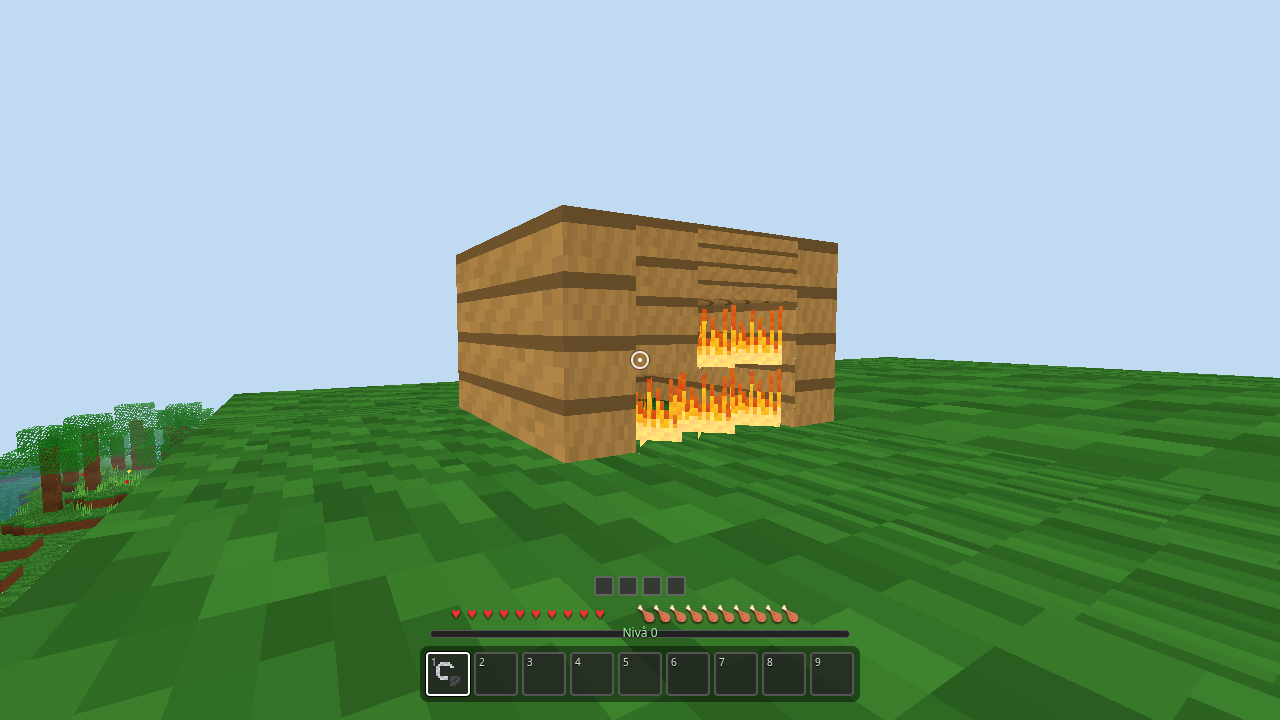
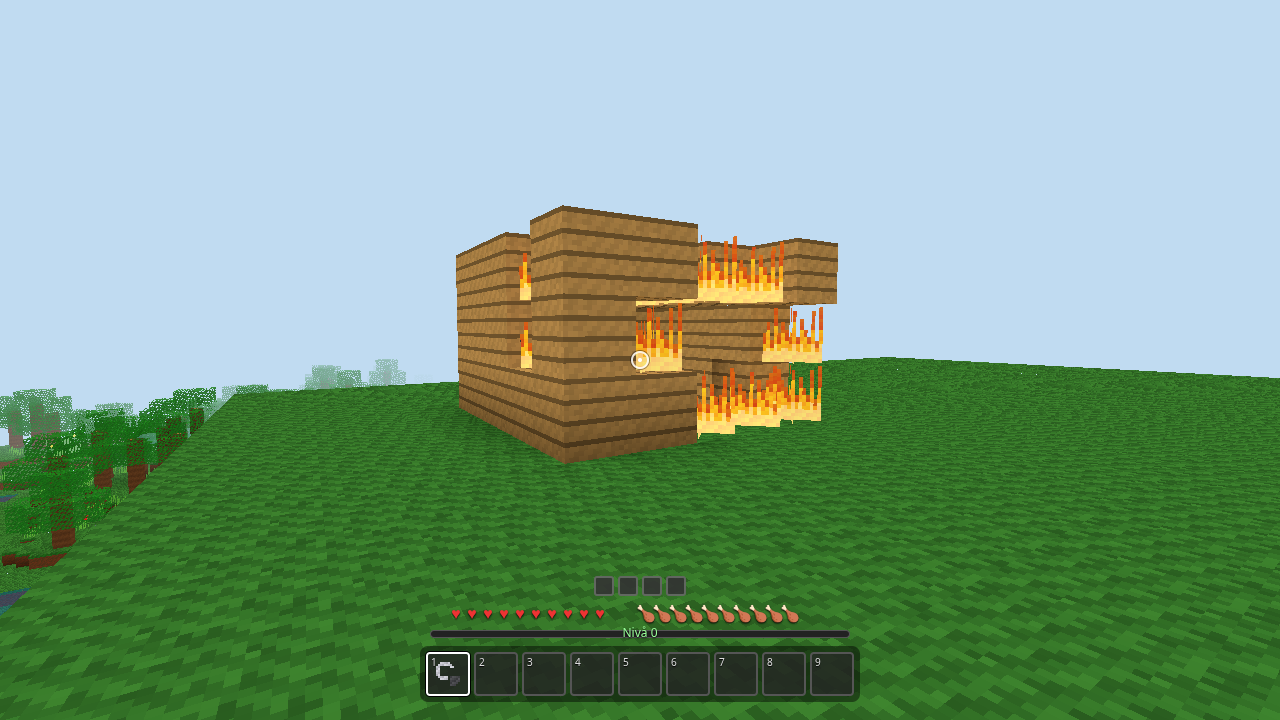
it19: greedy-meshed faces repeat the texture per block (were one stretched tile); NL1 waits for remesh; tests

diff --git a/src/render/renderer.ts b/src/render/renderer.ts
@@ -1,6 +1,6 @@
 import { proceduralIcon } from './itemIcons';
 import * as THREE from 'three';
-import { createAtlasCanvas, tileUV, ATLAS_W, ATLAS_H } from '../blocks/textures';
+import { createAtlasCanvas, tileUV, ATLAS_W, ATLAS_H, COLS as ATLAS_COLS, ROWS as ATLAS_ROWS } from '../blocks/textures';
 import type { ChunkMeshes, MeshData } from '../world/mesher';
 import type { World } from '../world/world';
 import type { PlayerState } from '../player/physics';
@@ -137,6 +137,18 @@ export class GameRenderer {
     const patchBlockLight = (m: THREE.Material) => {
       m.onBeforeCompile = (sh) => {
         sh.fragmentShader = sh.fragmentShader
+          .replace('#include <map_fragment>', `
+            #ifdef USE_MAP
+              vec2 bvUv = vMapUv;
+              #if defined( USE_COLOR_ALPHA ) || defined( USE_COLOR )
+                if ( vColor.b < -0.5 ) {
+                  float bvT = floor( -vColor.b - 0.5 );
+                  bvUv = ( vec2( mod( bvT, ${ATLAS_COLS}.0 ), floor( bvT / ${ATLAS_COLS}.0 ) ) + fract( vMapUv ) ) / vec2( ${ATLAS_COLS}.0, ${ATLAS_ROWS}.0 );
+                }
+              #endif
+              diffuseColor *= texture2D( map, bvUv );
+            #endif
+          `)
           .replace('#include <color_fragment>', `
             vec3 bvBase = diffuseColor.rgb;
             #if defined( USE_COLOR_ALPHA )

diff --git a/src/world/mesher.ts b/src/world/mesher.ts
@@ -157,9 +157,12 @@ function emitQuad(
     a.positions.push(corners[i][0], corners[i][1], corners[i][2]);
     a.normals.push(face.normal[0], face.normal[1], face.normal[2]);
   }
-  // Single atlas tile stretched across greedy quad (no bleed into neighbors)
-  void du; void dv;
-  a.uvs.push(uv.u0, uv.v1, uv.u1, uv.v1, uv.u1, uv.v0, uv.u0, uv.v0);
+  // it19: tile-local UVs (0..du, 0..dv) + tile index in colour B (negative) — the chunk shader repeats the
+  // tile once per block. Was: one atlas tile stretched across the whole greedy quad (flat ground showed
+  // huge blurry squares, a 5×3 wall one giant plank texture).
+  void uv;
+  a.uvs.push(0, dv, du, dv, du, 0, 0, 0);
+  const tileCode = -(tileIdx + 1);
 
   let powerBoost = 1;
   if (id === BlockId.RedDust && meta > 0) powerBoost = 1.35;
@@ -168,7 +171,7 @@ function emitQuad(
     const col = Math.min(1.5, aos[i] * shade * lightMul * powerBoost);
     const bcol = Math.min(1.5, aos[i] * shade * blockMul * powerBoost);
     const alpha = def.transparent ? (def.liquid ? (id === BlockId.Lava ? 0.85 : 0.55) : id === BlockId.Torch ? 0.95 : 0.75) : 1;
-    a.colors.push(col, bcol, col, alpha);
+    a.colors.push(col, bcol, tileCode, alpha);
   }
   const vb = a.vBase;
   if (aos[0] + aos[2] > aos[1] + aos[3]) {

diff --git a/tests/it19-blocklight.test.ts b/tests/it19-blocklight.test.ts
@@ -31,4 +31,18 @@ describe('it19 block light vs sky light in the mesh (MC: torches light the night
     expect(p >> 4).toBe(13);
     expect(w.getLight(9, 46, 8)).toBe(15);
   });
+  it('greedy quads repeat the tile once per block (UV 0..w × 0..h, tile index in colour B) instead of stretching it', () => {
+    const c = new Chunk(0, 0);
+    c.generated = true;
+    for (let z = 0; z < 8; z++) for (let x = 0; x < 8; x++) c.set(x, 5, z, BlockId.Grass);
+    const get = (x: number, y: number, z: number) => (y === 5 && x >= 0 && x < 8 && z >= 0 && z < 8 ? BlockId.Grass : BlockId.Air);
+    const m = meshChunk(c, get, () => 15).opaque;
+    let maxU = 0;
+    for (let i = 0; i < m.uvs.length; i += 2) maxU = Math.max(maxU, m.uvs[i]);
+    expect(maxU).toBe(8);
+    expect(m.colors[2]).toBeLessThan(-0.5); // tile code
+    const codes = new Set<number>();
+    for (let i = 2; i < m.colors.length; i += 4) codes.add(m.colors[i]);
+    expect(codes.has(-(0 + 1))).toBe(true); // grass top tile 0
+  });
 });

diff --git a/scripts/it19-verify.ts b/scripts/it19-verify.ts
@@ -510,7 +510,9 @@ async function main() {
     const before = await lum('it19-09a-foer-fakkel.png');
     await hold(page, 80, 'right'); await sleep(1500);
     const torch = await gb(16, 46, 6);
-    const after = await lum('it19-09-fakkel-natt.png');
+    let after = await lum('it19-09-fakkel-natt.png');
+    // remesh after the torch can take a moment in headless swiftshader
+    for (let i = 0; i < 6 && after.near < before.near * 1.8; i++) { await sleep(1000); after = await lum('it19-09-fakkel-natt.png'); }
     await page.evaluate(() => { const bv = (window as any).__bv; bv.player.creative = true; bv.player.flying = true; bv.teleport(16.5, 58, 20.5); bv.lookAt(16.5, 46, 6.5); });
     await sleep(1500);
     await shot(page, 'it19-10-fakkel-ovenfra.png');
